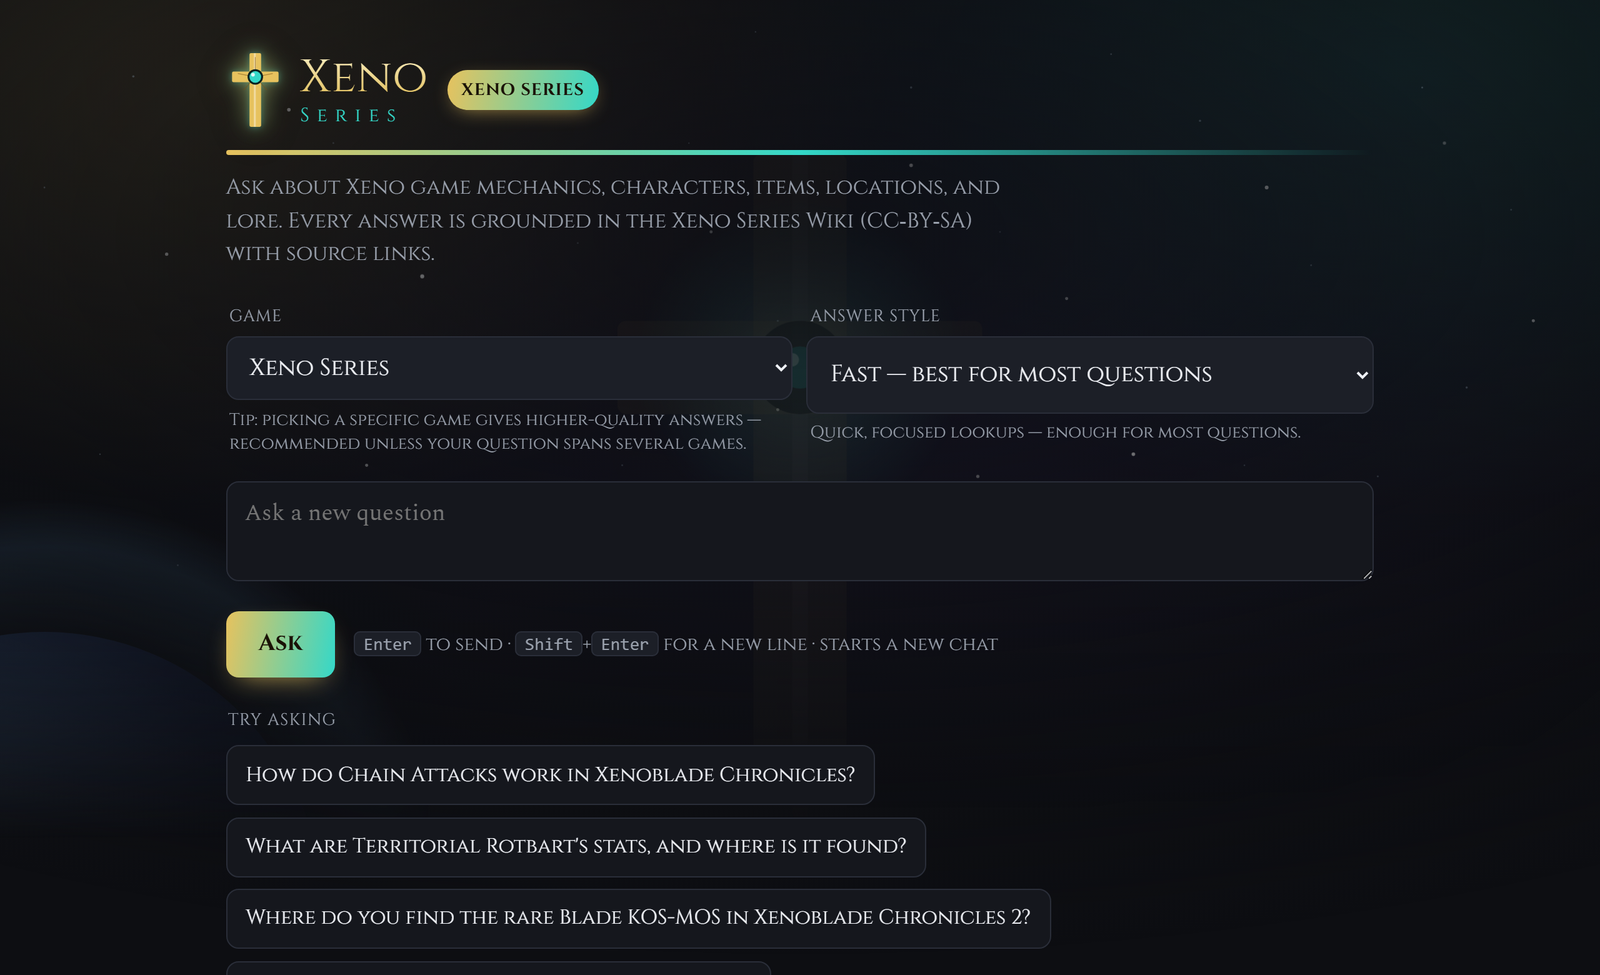
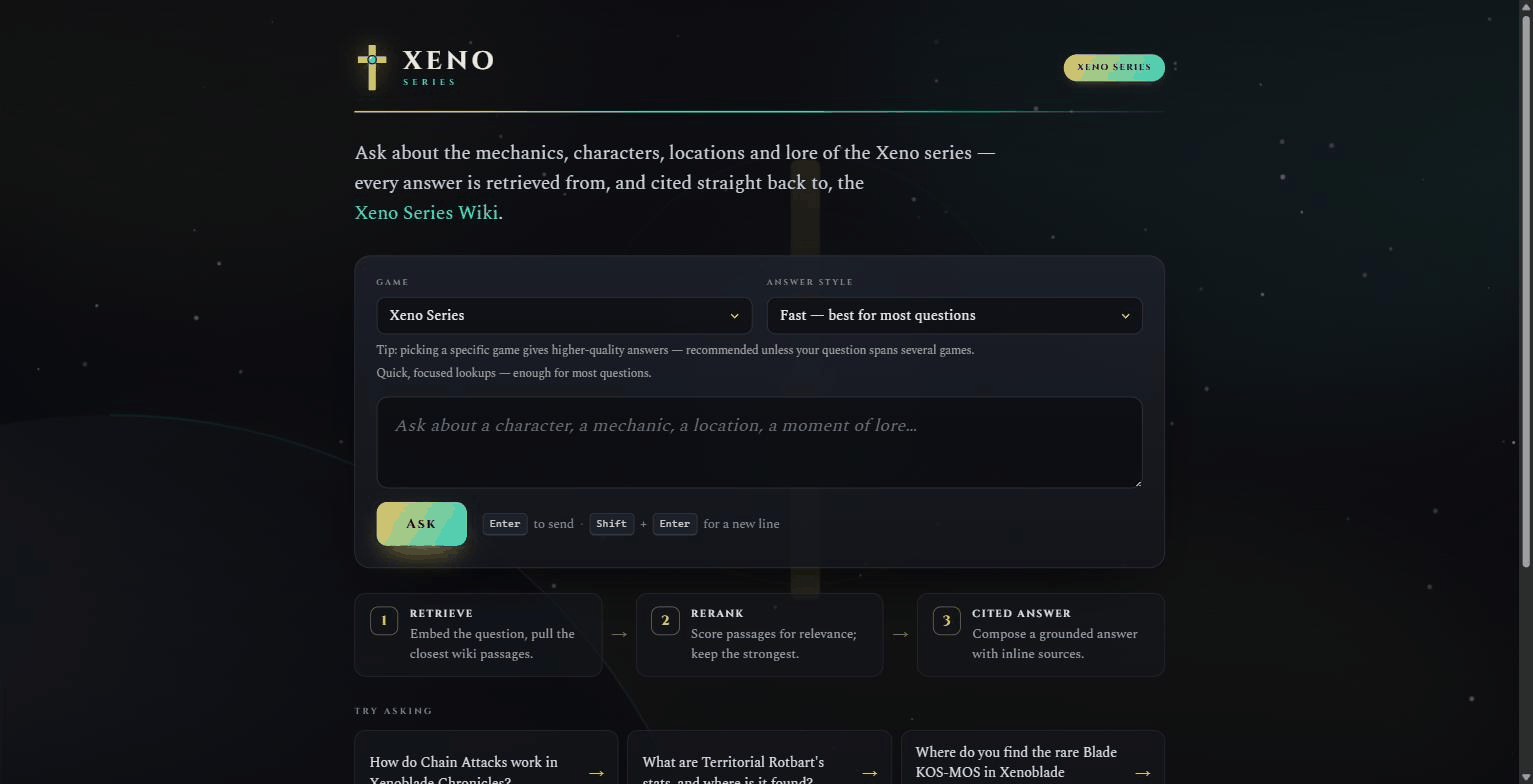
@ docs(web): refresh screenshot + demo GIF for the redesigned UI
Regenerate docs/screenshot.png (cosmic all-games landing) and
docs/demo.gif (landing -> themed search -> grounded cited answer ->
tiered sources) to match the cycle-4 redesign; the prior media showed
the old UI. Add aria-label to the composer textarea for accessibility.
@

diff --git a/xeno_rag/web/static/index.html b/xeno_rag/web/static/index.html
@@ -601,7 +601,7 @@
         <p class="field-hint" id="model-hint"></p>
 
         <div class="composer">
-          <textarea id="question" placeholder="Ask about a character, a mechanic, a location, a moment of lore&hellip;"></textarea>
+          <textarea id="question" aria-label="Your question" placeholder="Ask about a character, a mechanic, a location, a moment of lore&hellip;"></textarea>
         </div>
         <div class="ask-row">
           <button id="ask" class="go">Ask</button>
